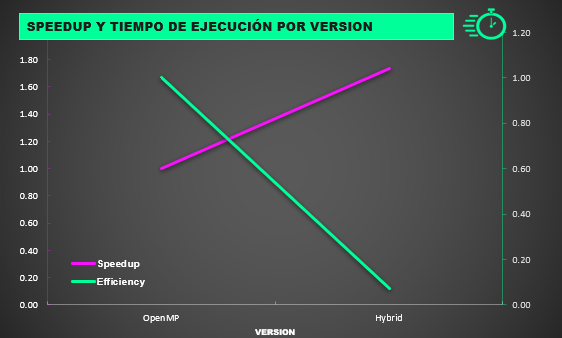
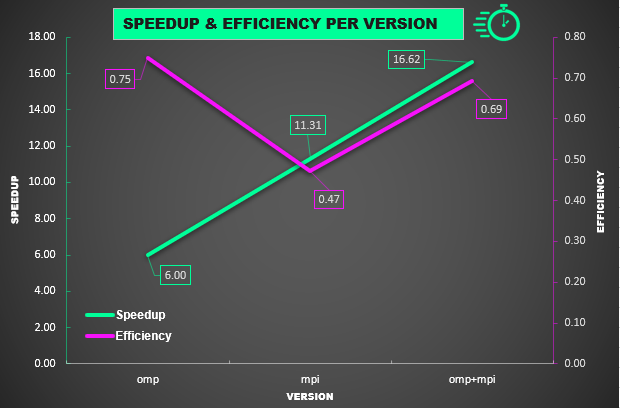
updated graph and results analysis

diff --git a/proyecto-2/README.md b/proyecto-2/README.md
@@ -100,9 +100,22 @@ In order to optimize the solution of our problem, we'll perform performance meas
 
   ### Distributed performance analysis
 
-  With our design, we obtained the expected results, since the execution time is now lower. As work units are big, the speedup wasn't that great using 24 threads instead of 8, resulting in lower efficiency. Work units being big could've increase the serial time of the process reducing the speedup. The program could be better with a different type of mapping that allows a better distribution of the work, using a smaller work unit, unless the additional overhead for synchronization makes it too inefficient.
+  With our design we improved greatly the execution time, lowering it to just a few minutes. As work units are big, dynamic mapping in the distributed part is more likely to have near optimal results. Work units being big could've increase the serial time of the process reducing the speedup, though. The program could be better with a different type of mapping in the concurrent part of the program, since our efficency depends entirely on the dimensions of the map.
 
-  Also we had an unexpected problem with mpi that made the processes terminate suddenly when more than 4 processes where created. Because of that, we couldn't measure the performance of the program using 24 single-threaded processes.
-
+  In the graph below we can see the speedup our three versions had. The 8-threaded omp implementation was the most efficient but also the slowest, most likely because of the amount of threads. The version that had best performance was the hybrid omp+mpi reducing the time to around three and a half minutes. 24 single-threaded processes in the mpi version also had a great speedup, however, it was slower than the mpi+omp version. This is probably because of the amount of maps, since the only way to have the 24 threads busy is to have at least 24 maps remaining. When less maps are left then concurrency reduces. 
+  
   ![Graph](./img/data-analysis-mpi.png "Execution time and efficiency")
+
+  Times obtained:
+  
+  omp 1 thread: 3473.57s obtained multiplying the 8 thread time by 6. It's only an estimated to calculate the speedup and efficiency
+
+  omp 8 thread: 578.93s
+
+  mpi 24 processes: 307.03s
+
+  omp+mpi 3 processes 24 threads: 208.94s
+
+
+  
  
